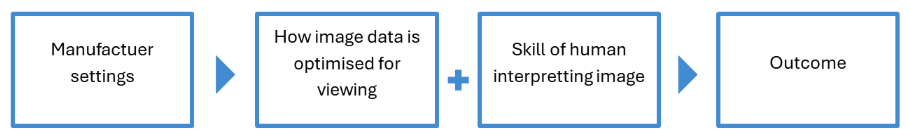
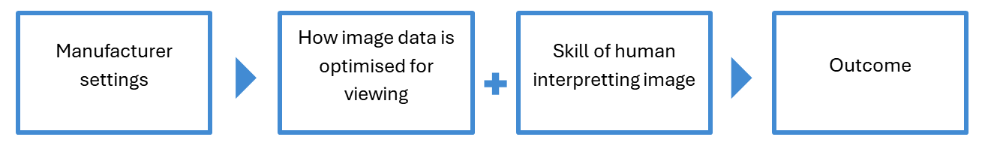
update index

diff --git a/app/breast-screening-pathway/2026/07/breast-equipment-standards/index.md b/app/breast-screening-pathway/2026/07/breast-equipment-standards/index.md
@@ -128,8 +128,10 @@ HL7 is used to exchange electronic health information, such as demographics, sch
 
 HL7 requires every message to start with “MSH” (message header). This defines the sender, receiver, and message type. These messages can trigger real-world events, such as admissions or orders. This standard is important for Rubie because the service needs to interact with a Trust’s PACS and modality systems. 
 
-> [!IMPORTANT] HL7 message example
-> MSH|^~\&|SENDING_APP|SENDING_FAC|RECEIVING_APP|RECEIVING_FAC|202604261000||ADT^A01|MSG00001|P|2.3PID|||PATID1234^5^M11||DOE^JOHN^||19800101|M|||123 STREETST^^CITY^12345||(555)5555555|||PV1||I|2000^2012^01||||1234^SMITH^JOHN^ |||||||||||||||||||||||||||||||||202604261000   
+### HL7 message example
+```
+MSH|^~&|SENDING_APP|SENDING_FAC|RECEIVING_APP|RECEIVING_FAC|202604261000||ADT^A01|MSG00001|P|2.3PID|||PATID1234^5^M11||DOE^JOHN^||19800101|M|||123 STREETST^^CITY^12345||(555)5555555|||PV1||I|2000^2012^01||||1234^SMITH^JOHN^ |||||||||||||||||||||||||||||||||202604261000
+```  
 
 There is a more modern evolution of HL7 known as “fast healthcare interoperability resources” (FHIR). This exists for the same purpose as HL7 but is more suitable for modern applications. [^5] However, we believe most incumbent hospital systems are more likely to rely on HL7 in the near term. 
 